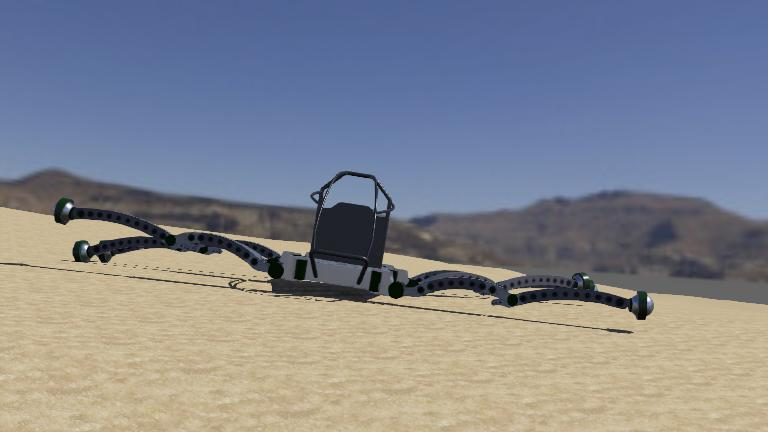
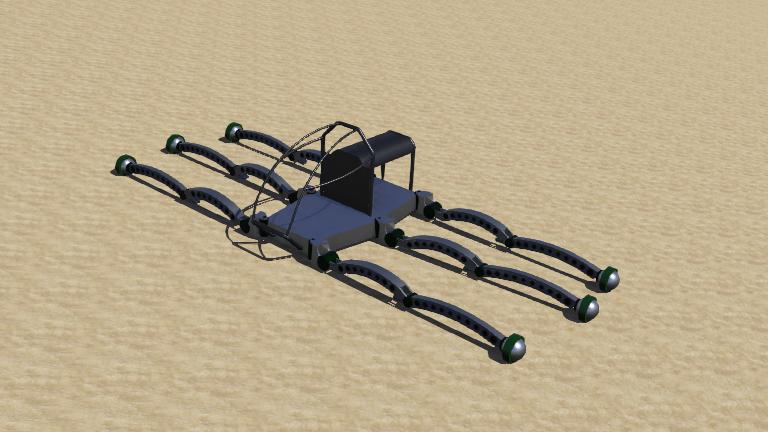
Needs better limits, possibly velocity implementation

diff --git a/mantis_dev_dir/rl_train/controllers/mantis/mantis.py b/mantis_dev_dir/rl_train/controllers/mantis/mantis.py
@@ -91,6 +91,9 @@ def main():
     ]
     
     # For limit settings, we need to swap "lines" with "cols"
+
+    # Important to mention that angles are inverted in C hinges 
+    # (one side moves forward when value is applied, other moves backwards)
     MOTOR_NAMES = [
         "RPC", "RMC", "RAC", "LPC", "LMC", "LAC", # Base (shoulder1, front-backward) motors
         "RPF", "RMF", "RAF", "LPF", "LMF", "LAF", # Base (shoulder2, up_down) motors
@@ -114,16 +117,18 @@ def main():
 
     aC,aF,aT = 0.25, 0.20,  0.05           # perfect value amplitudes (too good)
 
-    # custom values (simple integrity guide)
-    # only keeping aC the same to avoid leg crossing
-    aF *= 15
-    aT *= 30
+    # custom values (simple integrity guide, manually set)
+    # only lowering aC to avoid leg crossing
+    aC /= 1.2
+    aF *= 9
+    aT *= 35
 
 
-    dC,dF,dT = 0.60, 0.80, -2.40           # offsets (centers)
+    # dC,dF,dT = 0.60, 0.80, -2.40           # offsets (theoretically, centers, but not working)
+    dC, dF, dT = 0, 0.8, -2.4
 
-    minC, maxC = dC - aC, dC + aC
-    minF, maxF = dF - aF, dF + aF
+    minC, maxC = dC - aC, dC + aC 
+    minF, maxF = dF - aF, dF + aT
     minT, maxT = dT - aT, dT + aT
 
 
@@ -197,11 +202,10 @@ def main():
                 print("[Controller] Reset em curso...")
                 if is_supervisor:
                     robot.simulationReset()
-                    """
-                    robot_node.getField("translation").setSFVec3f([0, 0, 0.02])
-                    robot_node.getField("rotation").setSFRotation([1, 0, 0, 1.57])
-                    for motor in motors: motor.setPosition(float('0'))
-                    """
+
+                    # Only needs to be done once if world is correctly saved
+                    # otherwise, disable actions and run this once, then save
+                    # for i in range(18): motors[i].setPosition(0)
 
                 sock.sendall((json.dumps({"status": "reset_complete"}) + "\n").encode("utf-8"))
                 continue
@@ -215,6 +219,7 @@ def main():
             print(e)
             print(data)
             continue
+
 
         for i in range(18):
             # Normalizing motor input values (for safety and stability)
@@ -245,6 +250,7 @@ def main():
             #motors[i].setVelocity(pos)
 
 
+
                                             # ---------- Sensor Readings ---------- #
 
         # IMU
@@ -253,14 +259,13 @@ def main():
         #acc_norm = math.sqrt(ax * ax + ay * ay + az * az)
         imu_values = [roll, pitch, yaw]
 
-        # Read joint sensor angle values
+        # Read joint sensor rad values
 
         joint_values = []
         #print("---------------------------------------")
-        for sensor in joint_sensors:
+        for motor in motors:
             #print("Positional sensor value: ", math.degrees(sensor.getValue()))
-            if sensor: joint_values.append(sensor.getValue())
-            else: joint_values.append(None)
+            joint_values.append(motor.getTargetPosition())
         #print("---------------------------------------")
 
 
@@ -296,7 +301,7 @@ def main():
         observation = {
             # joint angles
             #"joint_robot_hdiff": joint_robot_hdiff,
-            "joint_sensors" : joint_values,
+            "joint_sensors" : joint_values, # 18 values
 
             # roll, pitch and yaw
             "imu": imu_values, # 3 values

diff --git a/mantis_dev_dir/rl_train/environments/hexapod_env.py b/mantis_dev_dir/rl_train/environments/hexapod_env.py
@@ -10,7 +10,7 @@ import json
 import subprocess
 import time
 
-OBS_SPACE_SIZE = 18
+OBS_SPACE_SIZE = 30
 
 
 def is_port_in_use(port, host="127.0.0.1"):
@@ -154,15 +154,25 @@ class HexapodEnv(gym.Env):
             """
             
             # Acceptable arm position (hinge safety and correct execution of task)
-            base_angle = -138.2
-            for joint_angle in joint_sensors:
-                diff = abs(joint_angle - base_angle)
-                if diff <= 10:
-                    # In order to enforce stability while
-                    # standing, this reward is much more important (3x)
-                    reward += 1 * 3
-                else:
-                    reward -= 0.5 * 3
+            aC, aF, aT = 0.25, 0.20, 0.05  # perfect value amplitudes
+            dC, dF, dT = 0.60, 0.80, -2.40  # offsets (centers)
+            minC, maxC = dC - aC, dC + aC
+            minF, maxF = dF - aF, dF + aF
+            minT, maxT = dT - aT, dT + aT
+
+            for i in range(18):
+                if i < 6:
+                    if minC <= joint_sensors[i] <= maxC: reward += 1
+                    else: reward -= 1
+
+                elif i < 12:
+                    if minF <= joint_sensors[i] <= maxF: reward += 1
+                    else: reward -= 1
+
+                elif i < 18:
+                    if minT <= joint_sensors[i] <= maxT: reward += 1
+                    else: reward -= 1
+
 
 
             # Tilt control helps avoid flipping over
@@ -217,6 +227,7 @@ class HexapodEnv(gym.Env):
         # Sends actions into Webots
         #print("Action sent by PPO: ", action)
         self.conn.sendall(json.dumps(action.tolist()).encode('utf-8'))
+        #self.conn.sendall(json.dumps((np.zeros(30)).tolist()).encode('utf-8'))
 
         # Pulls readings after actions
         data = self.conn.recv(4096)
@@ -228,8 +239,9 @@ class HexapodEnv(gym.Env):
             dtype=np.float32
         )
 
+
+        #print("Joint sensors:", len(obs['joint_sensors']))
         """
-        print("Joint sensors:", obs['joint_sensors'])
         print("IMU:", obs['imu'])
         print("Foot contacts:", obs['foot_contacts'])
         print("Center of mass:", obs['com'])
